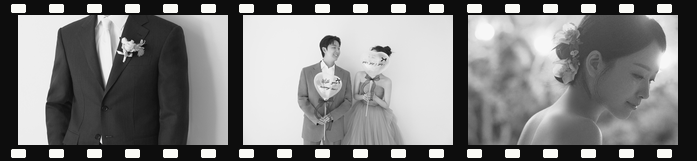
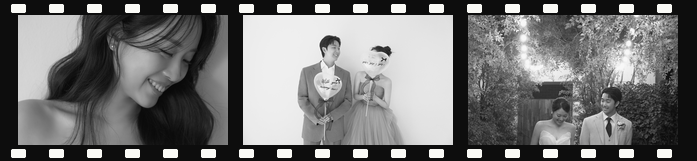
Re-crop filmstrips so faces stay in frame, add image10 to gallery
The previous filmstrips used center-crop on portrait sources, which
clipped subjects' heads. Now the crop is conditional: portraits get
resize-to-width + a vertical 40px offset crop (keeps faces in frame),
landscape sources stay at center-crop. Strip 1 now uses image1 / 6 /
10, strip 2 uses image3 / 9 / 8 — all six show the couple's faces.
Gallery bumped from 9 to 10 to include image10.jpg.

diff --git a/index.html b/index.html
@@ -651,7 +651,7 @@
       mapAPI(latitude, longitude);
 
       // Gallery (Swiper + PhotoSwipe) — local libs, always available.
-      galleryImg(9);
+      galleryImg(10);
 
       // Default guestbook swiper (used when Firebase isn't configured; guestBook()
       // re-initialises Swiper with live data when it is configured).
